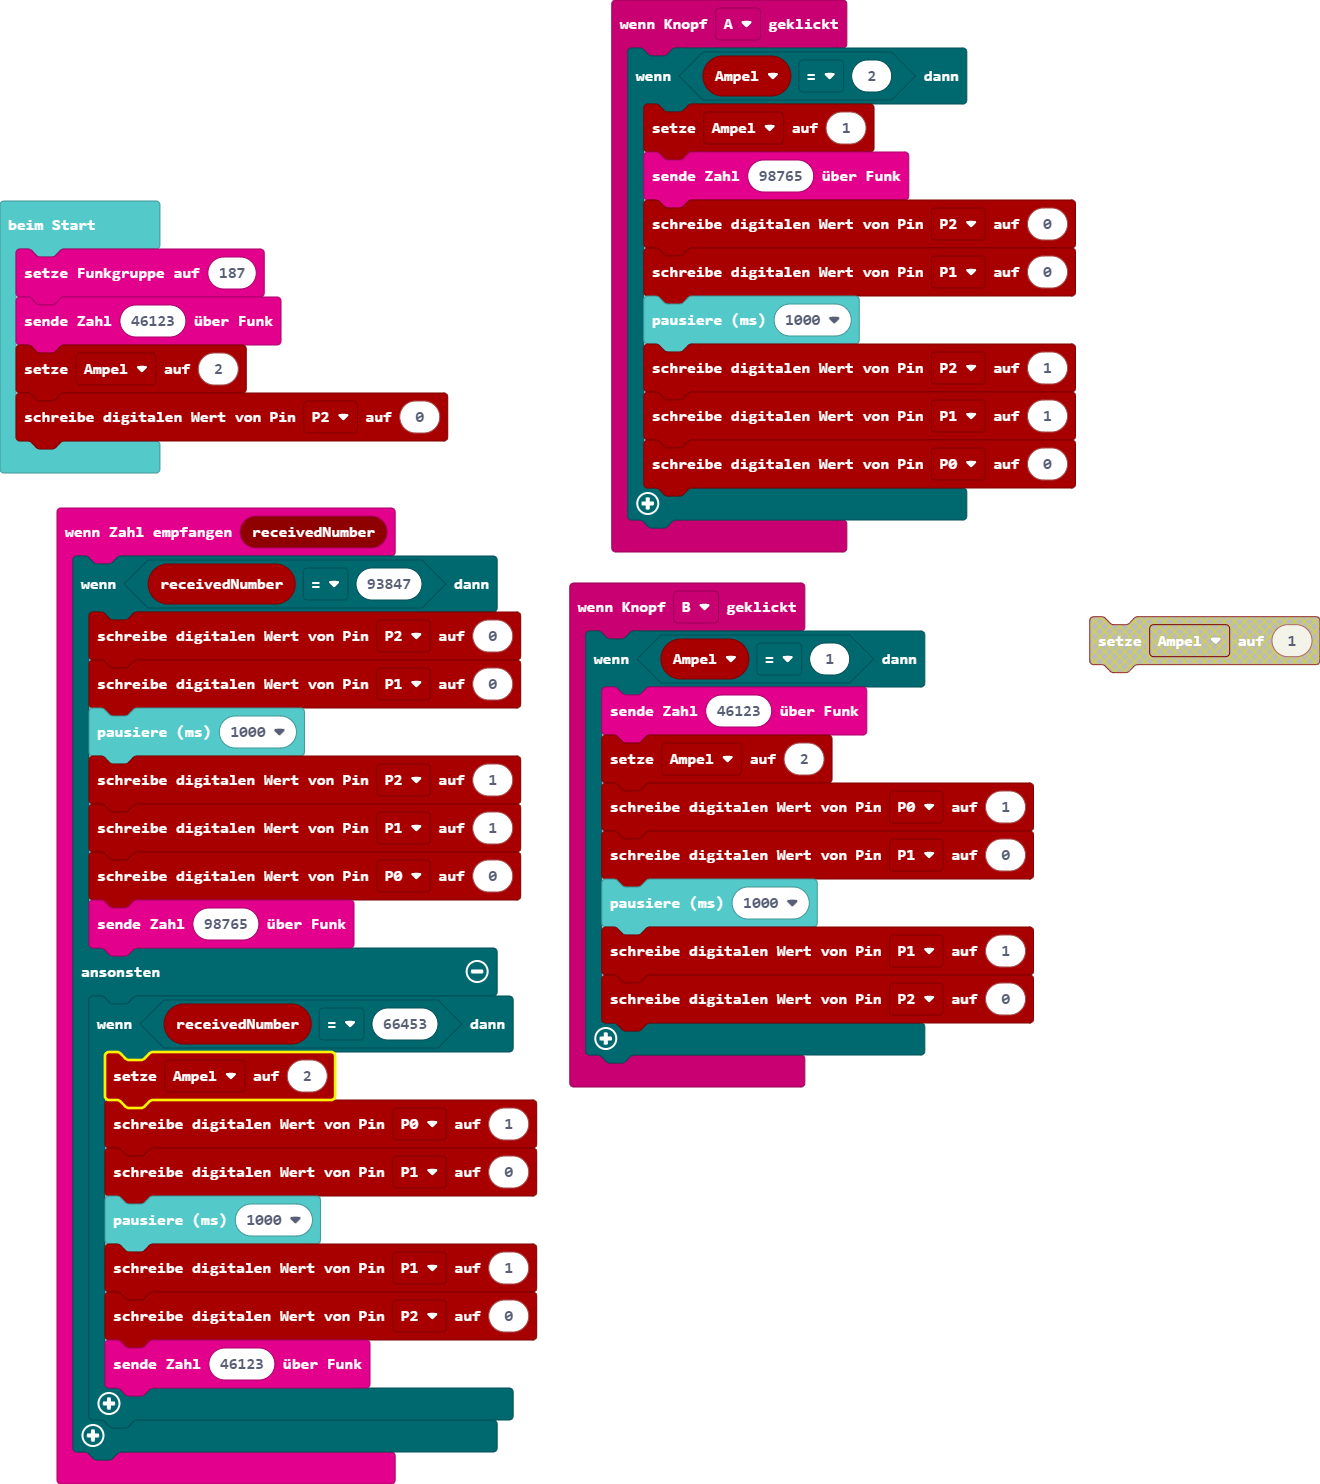
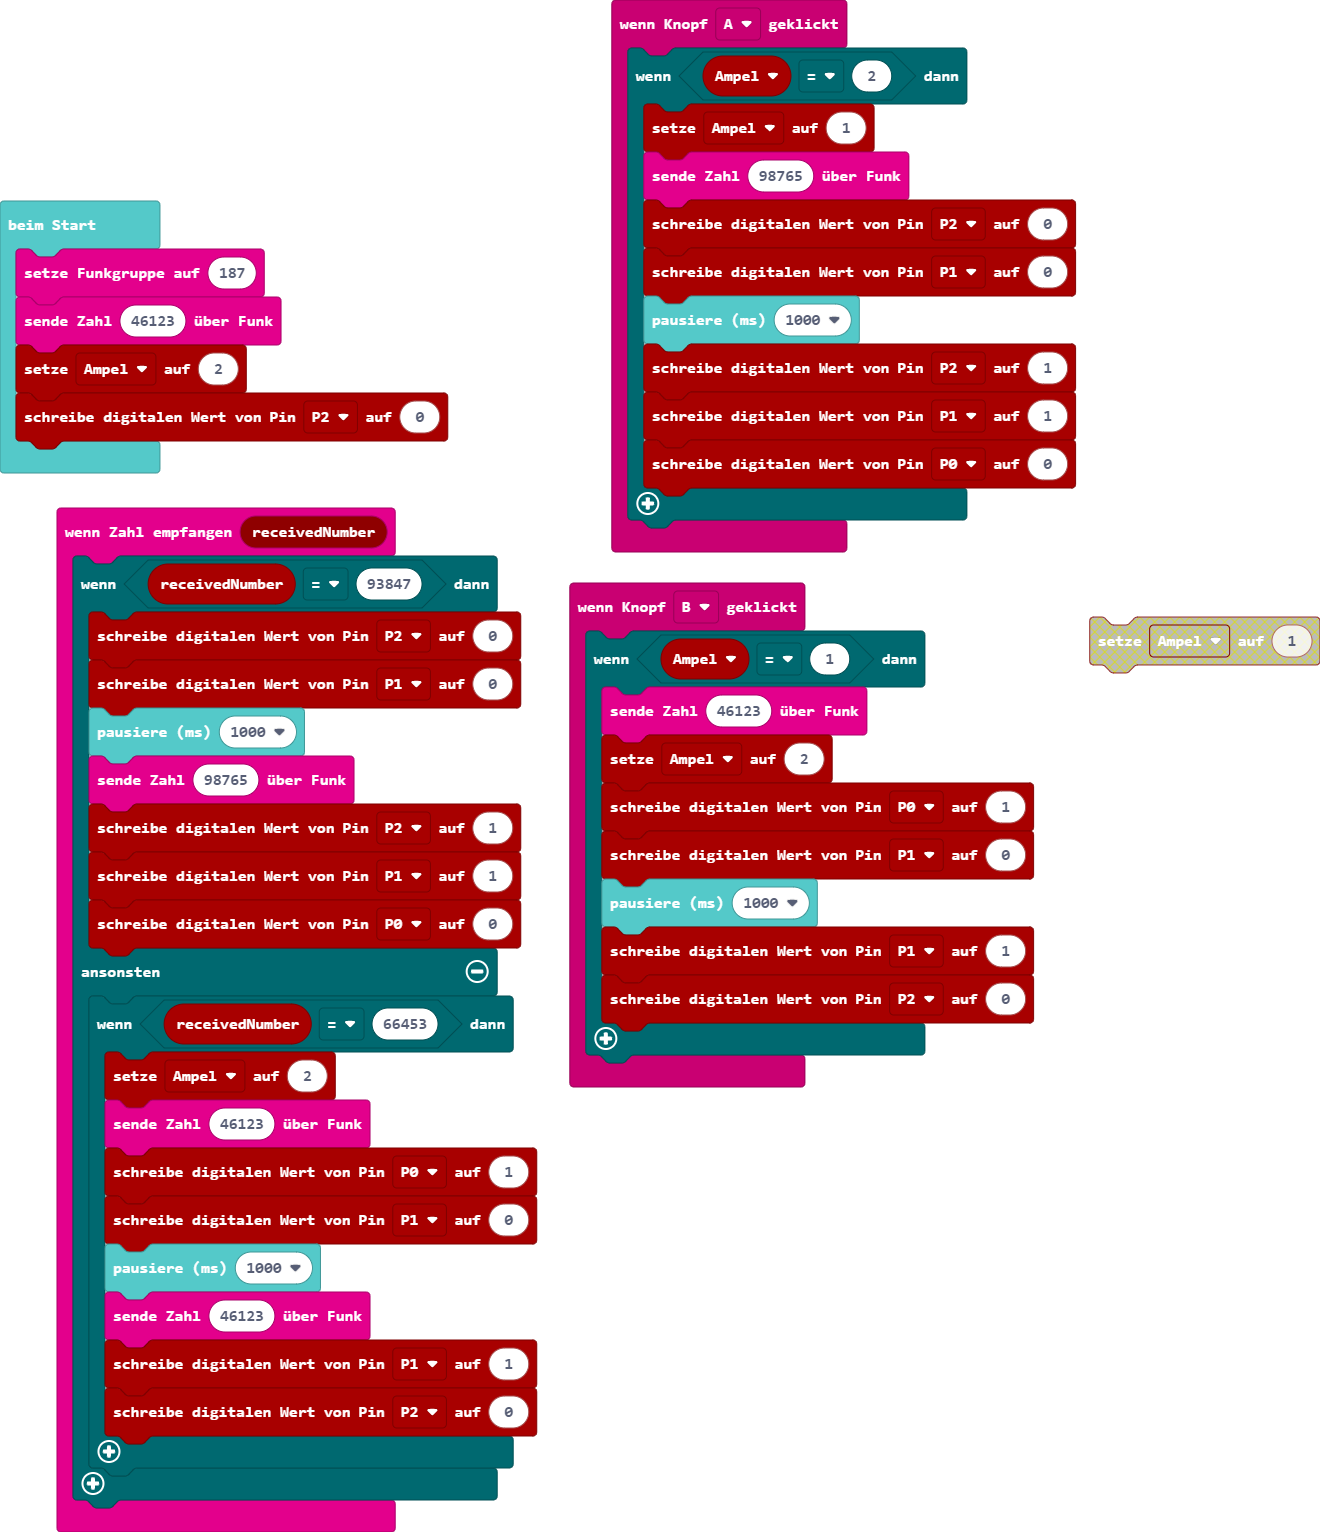
Aktualisiere main.blocks, main.ts

Changed region(s): [[0.0, 0.124, 0.4348, 0.9919], [0.4348, 0.0, 0.8386, 0.7439], [0.8076, 0.403, 1.0, 0.465]]

diff --git a/main.ts b/main.ts
@@ -3,19 +3,20 @@ radio.onReceivedNumber(function (receivedNumber) {
         pins.digitalWritePin(DigitalPin.P2, 0)
         pins.digitalWritePin(DigitalPin.P1, 0)
         basic.pause(1000)
+        radio.sendNumber(98765)
         pins.digitalWritePin(DigitalPin.P2, 1)
         pins.digitalWritePin(DigitalPin.P1, 1)
         pins.digitalWritePin(DigitalPin.P0, 0)
-        radio.sendNumber(98765)
     } else {
         if (receivedNumber == 66453) {
             Ampel = 2
+            radio.sendNumber(46123)
             pins.digitalWritePin(DigitalPin.P0, 1)
             pins.digitalWritePin(DigitalPin.P1, 0)
             basic.pause(1000)
+            radio.sendNumber(46123)
             pins.digitalWritePin(DigitalPin.P1, 1)
             pins.digitalWritePin(DigitalPin.P2, 0)
-            radio.sendNumber(46123)
         }
     }
 })
